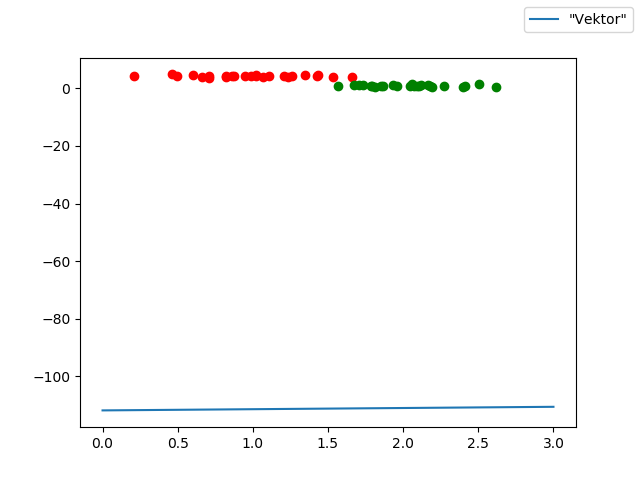
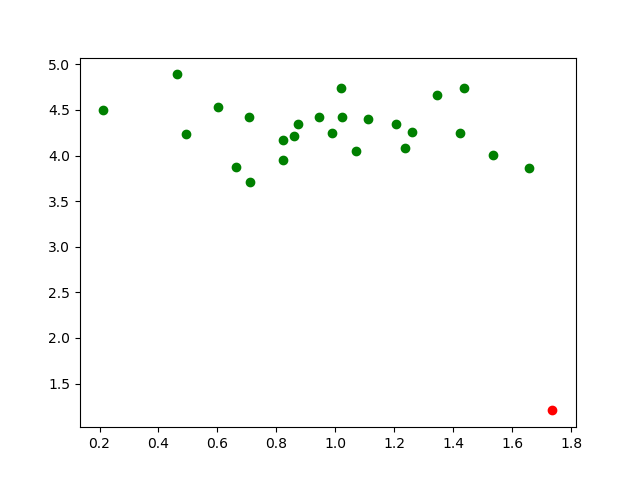
some plotting problems

diff --git a/02-SupportVectorMachine/test_svm.py b/02-SupportVectorMachine/test_svm.py
@@ -24,6 +24,10 @@ def test_normalvector_shape():
     gradient_weight = svm.gradient_weight(x_data, y_label)
     assert gradient_weight.shape == (x_data.shape[1], )
 
+def test_train_data():
+    x_data, y_label = make_data(30)
+    assert np.sum(y_label == 1) == np.sum(y_label == 0)
+
 
 # def test_bias_type():
 #     """Teste, ob der Achsenabschnitt ein Skalar ist."""
@@ -60,8 +64,9 @@ def func(iterations):
     print('Lagrangemultiplikatoren', svm.alpha)
     print('y-Achsenabschnitt', svm.b)
 
-    # fig, ax = plot_hyperplane(svm.w, svm.b, x_data, y_label)
-    # fig.savefig('hyperplane.png')
+    #fig, ax = Plotter().plot_hyperplane(svm.w, svm.b, x_data, y_label)
+    fig, ax = Plotter().plot_label(x_data, y_label)
+    fig.savefig('hyperplane.png')
 
     # print('Prediction:')
     # print('-----------')

diff --git a/02-SupportVectorMachine/svm.py b/02-SupportVectorMachine/svm.py
@@ -23,15 +23,15 @@ class Plotter:
         fig, ax = plt.subplots()
         for lab, c in zip(np.unique(label), ['red', 'green']):
             ax.scatter(
-                data[:, 0][(label == lab)],
-                data[:, 1][(label == lab)],
+                data[:, 0][label == lab],
+                data[:, 1][label == lab],
                 color=c,
             )
         print('Data plotted.')
         return fig, ax
 
     def plot_hyperplane(self, w, b, data, label):
-        fig, ax = plot(data, label)
+        fig, ax = self.plot_label(data, label)
         x = np.linspace(0, 3, len(label))
         # ax.plot(x, (- w[0] * x + b) / w[1], label='"Normal"')
         ax.plot(x, w[1] * x + b)
